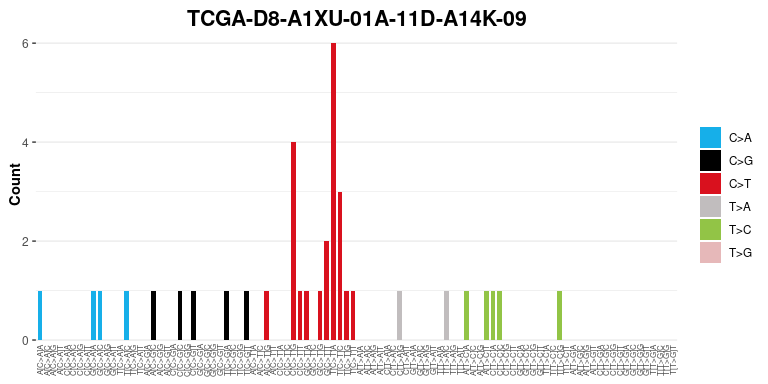
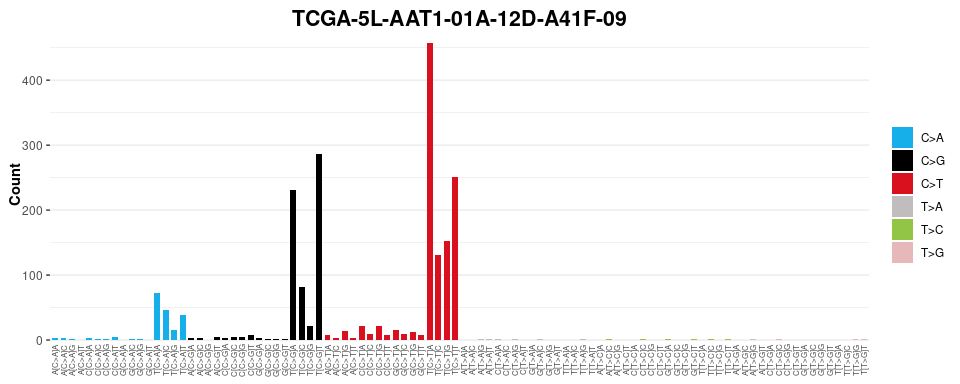
fix: tweaked readme figure size and approach

diff --git a/README.md b/README.md
@@ -20,8 +20,10 @@ analyses
 You can install the development version of sigvis like so:
 
 ``` r
-# install.packages('remotes')
-remotes::install_github('selkamand/sigvis')
+if (!require("pak", quietly = TRUE))
+    install.packages("pak")
+
+pak::pak("selkamand/sigverse")
 ```
 
 ## Usage
@@ -35,11 +37,14 @@ library(sigverse)
 #> ✔ sigsim    0.0.0.9000     ✔ sigstory  0.0.0.9000
 #> ✔ sigstash  0.0.0.9000     ✔ sigvis    0.0.0.9000
 
-# Load Signature 
-signatures <- sig_load('COSMIC_v3.3.1_SBS_GRCh38')
+# Load Signature
+signatures <- sig_load("COSMIC_v3.3.1_SBS_GRCh38")
 
-# Visualise a single signature
-sig_visualise(signatures[["SBS2"]], title = "SBS2")
+# Select just SBS2
+SBS2 <- signatures[["SBS2"]]
+
+# Plot
+sig_visualise(signature = SBS2, title = "SBS2")
 #> ✔ All channels matched perfectly to set [sbs_96]. Using this set for sort order
 #> ✔ All types matched perfectly to set [sbs_type]. Using this set for sort order
 #> ✔ Types matched perfectly to palette [snv_type]
@@ -53,15 +58,32 @@ sig_visualise(signatures[["SBS2"]], title = "SBS2")
 # Load library containing results of TCGA mutational signature analysis
 library(TCGAdecomp)
 
-# Load decompositions from sigstash
-brca_decompositions <- decomp_load('BRCA')
 
-# Visualise a decomposition
-sig_visualise(
-  brca_decompositions[['TCGA-D8-A1XU-01A-11D-A14K-09']], 
-  class = "decomposition", 
-  title = 'TCGA-D8-A1XU-01A-11D-A14K-09'
-)
+# Load a decomposition
+tally <- decomp_load("BRCA", type = "SBS_96")
+
+# Select a single sample of interest
+sample = "TCGA-5L-AAT1-01A-12D-A41F-09"
+tally_single_sample <- tally[[sample]]
+
+tally_single_sample
+#> # A tibble: 96 × 4
+#>    channel type  fraction count
+#>    <chr>   <chr>    <dbl> <int>
+#>  1 A[C>A]A C>A   0.00151      3
+#>  2 A[C>A]C C>A   0.00151      3
+#>  3 A[C>A]G C>A   0.000503     1
+#>  4 A[C>A]T C>A   0            0
+#>  5 A[C>G]A C>G   0.00151      3
+#>  6 A[C>G]C C>G   0.00151      3
+#>  7 A[C>G]G C>G   0            0
+#>  8 A[C>G]T C>G   0.00201      4
+#>  9 A[C>T]A C>T   0.00402      8
+#> 10 A[C>T]C C>T   0.00151      3
+#> # ℹ 86 more rows
+
+# Visualise Observed Mutational Profile
+sig_visualise(tally_single_sample, class = "decomposition", title = sample)
 #> ✔ All channels matched perfectly to set [sbs_96]. Using this set for sort order
 #> ✔ All types matched perfectly to set [sbs_type]. Using this set for sort order
 #> ✔ Types matched perfectly to palette [snv_type]
@@ -76,11 +98,9 @@ signature ‘SBS2’ explains 60% of the mutations in a sample, and ‘SBS13’
 explains the remaining 40%
 
 ``` r
-
 # Visualise a model (combination of signatures)
-
 model = sig_combine(signatures, model = c('SBS2' = 0.6, 'SBS13' = 0.4))
-sig_visualise(model, class = 'model')
+sig_visualise(model, class = 'model', title = "Model", subtitle = "Combination of SBS2 (60%) and SBS13 (40%)")
 #> ✔ All channels matched perfectly to set [sbs_96]. Using this set for sort order
 #> ✔ All types matched perfectly to set [sbs_type]. Using this set for sort order
 #> ✔ Types matched perfectly to palette [snv_type]
